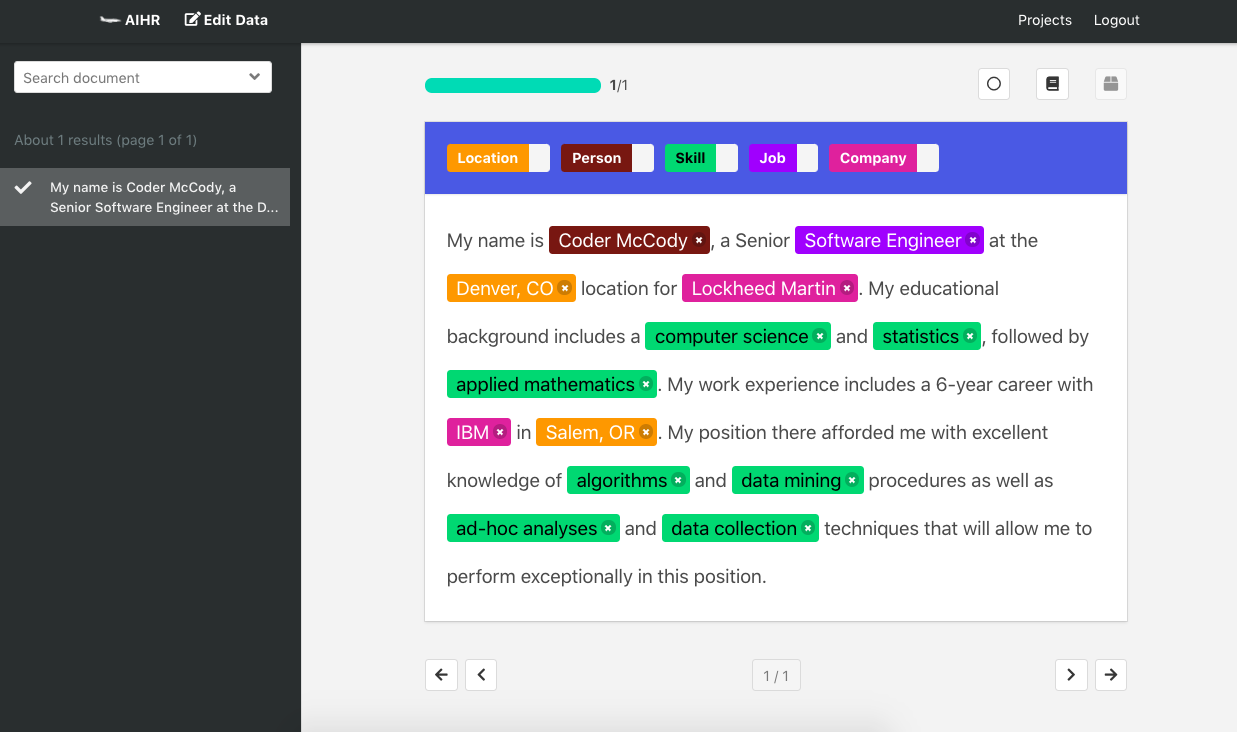
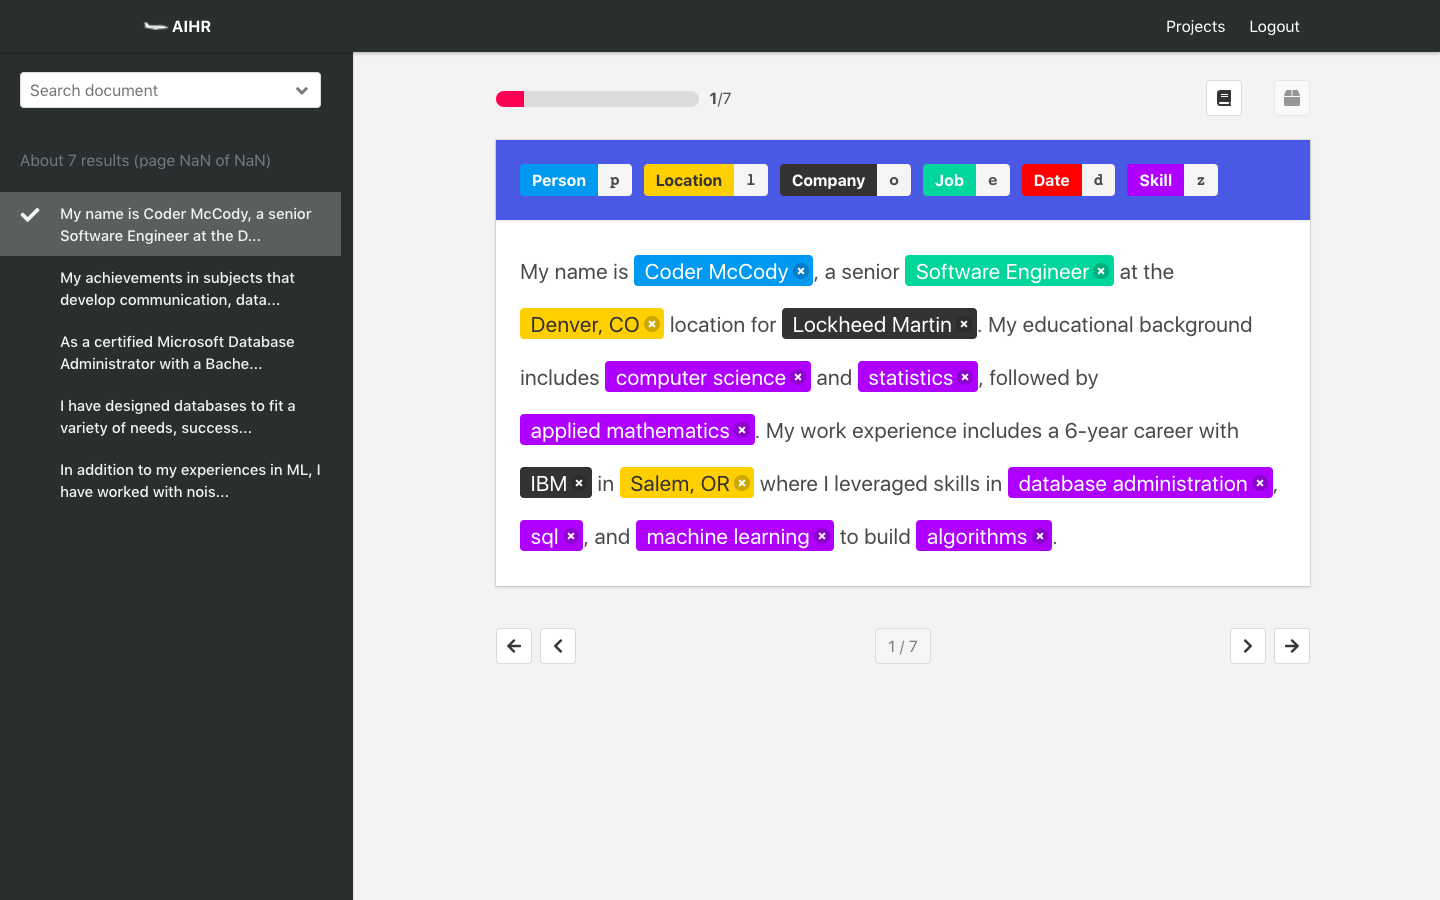
test

diff --git a/app/server/static/components/demo/demo_data.js b/app/server/static/components/demo/demo_data.js
@@ -7,115 +7,52 @@ export const demoNamedEntity = {
   },
   docs: [
     {id: 1, 
-     text: "My name is Coder McCody, a Senior Software Engineer at the Denver, CO location for Lockheed Martin. My educational background includes a computer science and statistics, followed by applied mathematics. My work experience includes a 6-year career with IBM in Salem, OR. My position there afforded me with excellent knowledge of algorithms and data mining procedures as well as ad-hoc analyses and data collection techniques that will allow me to perform exceptionally in this position.", 
-     annotations: [{id: 102, label: 1, start_offset: 11, end_offset: 23, user: 1}, {id: 121, label: 9, start_offset: 34, end_offset: 51, user: 1}, {id: 181, label: 2, start_offset: 59, end_offset: 69, user: 1}, {id: 171, label: 3, start_offset: 83, end_offset: 98, user: 1}, {id: 711, label: 8, start_offset: 137, end_offset: 153, user: 1}, {id: 1551, label: 8, start_offset: 158, end_offset: 168, user: 1}, {id: 411, label: 8, start_offset: 182, end_offset: 201, user: 1}, {id: 911, label: 3, start_offset: 252, end_offset: 255, user: 1}, {id: 1001, label: 2, start_offset: 259, end_offset: 268, user: 1}, {id: 112, label: 8, start_offset: 328, end_offset: 338, user: 1}, {id: 119, label: 8, start_offset: 343, end_offset: 354, user: 1}, {id: 331, label: 8, start_offset: 377, end_offset: 392, user: 1}, {id: 113, label: 8, start_offset: 397, end_offset: 412, user: 1}]},
+     text: "My name is Coder McCody, a senior Software Engineer at the Denver, CO location for Lockheed Martin. My educational background includes computer science and statistics, followed by applied mathematics. My work experience includes a 6-year career with IBM in Salem, OR where I leveraged skills in database administration, sql, and machine learning to build algorithms.", 
+     annotations: [
+     {id: 1, prob: 0.0, label: 1, start_offset: 11, end_offset: 23, user: 1}, 
+     {id: 2, prob: 0.0, label: 4, start_offset: 34, end_offset: 51, user: 1}, 
+     {id: 3, prob: 0.0, label: 2, start_offset: 59, end_offset: 69, user: 1}, 
+     {id: 4, prob: 0.0, label: 3, start_offset: 83, end_offset: 98, user: 1}, 
+     {id: 5, prob: 0.0, label: 6, start_offset: 135, end_offset: 151, user: 1}, 
+     {id: 6, prob: 0.0, label: 6, start_offset: 156, end_offset: 166, user: 1}, 
+     {id: 7, prob: 0.0, label: 6, start_offset: 180, end_offset: 199, user: 1}, 
+     {id: 8, prob: 0.0, label: 3, start_offset: 250, end_offset: 253, user: 1}, 
+     {id: 9, prob: 0.0, label: 2, start_offset: 257, end_offset: 266, user: 1}, 
+
+     {id: 10, prob: 0.0, label: 6, start_offset: 295, end_offset: 318, user: 1}, 
+     {id: 11, prob: 0.0, label: 6, start_offset: 320, end_offset: 323, user: 1}, 
+
+     {id: 12, prob: 0.0, label: 6, start_offset: 329, end_offset: 345, user: 1}, 
+     {id: 14, prob: 0.0, label: 6, start_offset: 355, end_offset: 365, user: 1}]},
 
     {
       id: 12,
-      text: 'Barack Hussein Obama II (born August 4, 1961) is an American attorney and politician who served as the 44th President of the United States from January 20, 2009, to January 20, 2017. A member of the Democratic Party, he was the first African American to serve as president. He was previously a United States Senator from Illinois and a member of the Illinois State Senate.',
-      annotations: [
-        {
-          id: 16,
-          prob: 0.0,
-          label: 1,
-          start_offset: 0,
-          end_offset: 23,
-        },
-        {
-          id: 19,
-          prob: 0.0,
-          label: 2,
-          start_offset: 121,
-          end_offset: 138,
-        },
-        {
-          id: 27,
-          prob: 0.0,
-          label: 2,
-          start_offset: 321,
-          end_offset: 329,
-        },
-        {
-          id: 22,
-          prob: 0.0,
-          label: 3,
-          start_offset: 199,
-          end_offset: 215,
-        },
-        {
-          id: 28,
-          prob: 0.0,
-          label: 3,
-          start_offset: 350,
-          end_offset: 371,
-        },
-        {
-          id: 17,
-          prob: 0.0,
-          label: 5,
-          start_offset: 30,
-          end_offset: 44,
-        },
-        {
-          id: 20,
-          prob: 0.0,
-          label: 5,
-          start_offset: 144,
-          end_offset: 160,
-        },
-        {
-          id: 21,
-          prob: 0.0,
-          label: 5,
-          start_offset: 165,
-          end_offset: 181,
-        },
-        {
-          id: 18,
-          prob: 0.0,
-          label: 6,
-          start_offset: 52,
-          end_offset: 60,
-        },
-        {
-          id: 24,
-          prob: 0.0,
-          label: 6,
-          start_offset: 234,
-          end_offset: 250,
-        },
-        {
-          id: 26,
-          prob: 0.0,
-          label: 6,
-          start_offset: 294,
-          end_offset: 315,
-        },
-      ],
+      text: 'My achievements in subjects that develop communication, data analysis, and visualization abilities constitute my capabilities in the field. I am certain that I have what you need and would become a beneficial extension to the company.',
+      annotations: [],
     },
     {
       id: 10,
-      text: 'The White House is the official residence and workplace of the President of the United States. It is located at 1600 Pennsylvania Avenue NW in Washington, D.C. and has been the residence of every U.S. President since John Adams in 1800. The term is often used as a metonym for the president and his advisers.',
+      text: 'As a certified Microsoft Database Administrator with a Bachelor’s degree in computer science and hands-on experience overseeing the design, development, and maintenance of various database systems, I believe my skills perfectly suit your needs.',
       annotations: [],
     },
     {
       id: 11,
-      text: "The Democratic Party is one of the two major contemporary political parties in the United States, along with the Republican Party. Tracing its heritage back to Thomas Jefferson and James Madison's Democratic-Republican Party, the modern-day Democratic Party was founded around 1828 by supporters of Andrew Jackson, making it the world's oldest active political party.",
+      text: "I have designed databases to fit a variety of needs, successfully ensured the security of those databases, problem-solved in order to meet both back-end and front-end needs, installed and tested new versions database management systems, customized and installed applications and meticulously monitored performance for the smoothest front-end experience possible.",
       annotations: [],
     },
     {
       id: 12,
-      text: "Stanford University (officially Leland Stanford Junior University, colloquially the Farm) is a private research university in Stanford, California. Stanford is known for its academic strength, wealth, proximity to Silicon Valley, and ranking as one of the world's top universities.",
+      text: "In addition to my experiences in ML, I have worked with noisy, large datasets in my previous two internships. At Raytheon, I worked on benchmarking their AI engine’s performance in clustering similar bugs in a bug database",
       annotations: [],
     },
     {
       id: 13,
-      text: 'Donald John Trump (born June 14, 1946) is the 45th and current President of the United States. Before entering politics, he was a businessman and television personality.',
+      text: 'I am using ML techniques such as recurrent neural network (RNN) on a Raspberry Pi to detect Sleep Interruption in real-time. I am also working in Python using Tensorflow, Keras, NumPy, Pandas, SciPy and Librosa. ',
       annotations: [],
     },
     {
       id: 14,
-      text: "Silicon Valley (abbreviated as SV) is a region in the southern San Francisco Bay Area of Northern California, referring to the Santa Clara Valley, which serves as the global center for high technology, venture capital, innovation, and social media. San Jose is the Valley's largest city, the 3rd-largest in California, and the 10th-largest in the United States. Other major SV cities include Palo Alto, Santa Clara, Mountain View, and Sunnyvale. The San Jose Metropolitan Area has the third highest GDP per capita in the world (after Zurich, Switzerland and Oslo, Norway), according to the Brookings Institution.",
+      text: "I built a custom compressor and decompressor in C and Python for the kinematic data flowing from a specialized surgical robotic devise. ",
       annotations: [],
     },
   ],
@@ -129,21 +66,21 @@ export const demoNamedEntity = {
     },
     {
       id: 2,
-      text: 'Loc',
+      text: 'Location',
       suffix_key: 'l',
       background_color: '#ffcc00',
       text_color: '#333333',
     },
     {
       id: 3,
-      text: 'Org',
+      text: 'Company',
       suffix_key: 'o',
       background_color: '#333333',
       text_color: '#ffffff',
     },
     {
       id: 4,
-      text: 'Event',
+      text: 'Job',
       suffix_key: 'e',
       background_color: '#33cc99',
       text_color: '#ffffff',
@@ -157,7 +94,7 @@ export const demoNamedEntity = {
     },
     {
       id: 6,
-      text: 'Other',
+      text: 'Skill',
       suffix_key: 'z',
       background_color: '#9933ff',
       text_color: '#ffffff',
@@ -175,54 +112,54 @@ export const demoTextClassification = {
   docs: [
     {
       id: 1,
-      text: 'Fair drama/love story movie that focuses on the lives of blue collar people finding new life thru new love.The acting here is good but the film fails in cinematography,screenplay,directing and editing.The story/script is only average at best.This film will be enjoyed by Fonda and De Niro fans and by people who love middle age love stories where in the coartship is on a more wiser and cautious level.It would also be interesting for people who are interested on the subject matter regarding illiteracy.......',
+      text: 'We are seeking a research scientist interested in fundamental and applied machine learning research. We want to find an intellectually curious person with a desire for building solutions to next generation problems. You will be joining a team of interdisciplinary scientists that bridge the gap between the academic and applied sides of research, and who share a vision of building autonomous systems to ensure national security, effective disaster relief, quick and efficient emergency response, and other high-impact customer needs.',
       annotations: [
         {
           id: 1,
-          label: 2,
+          label: 1,
         },
       ],
     },
     {
       id: 10,
-      text: "If you like adult comedy cartoons, like South Park, then this is nearly a similar format about the small adventures of three teenage girls at Bromwell High. Keisha, Natella and Latrina have given exploding sweets and behaved like bitches, I think Keisha is a good leader. There are also small stories going on with the teachers of the school. There's the idiotic principal, Mr. Bip, the nervous Maths teacher and many others. The cast is also fantastic, Lenny Henry's Gina Yashere, EastEnders Chrissie Watts, Tracy-Ann Oberman, Smack The Pony's Doon Mackichan, Dead Ringers' Mark Perry and Blunder's Nina Conti. I didn't know this came from Canada, but it is very good. Very good!",
-      annotations: [],
+      text: "Research and solution development experience in command and control, autonomous vehicle planning and control, formal methods for assurance, artificial perception, sensor data fusion, or collaborative autonomy involving teams of autonomous vehicles and humans (MUM-T).",
+      annotations: [{id:1, label:1}],
     },
     {
       id: 11,
-      text: "I came in in the middle of this film so I had no idea about any credits or even its title till I looked it up here, where I see that it has received a mixed reception by your commentators. I'm on the positive side regarding this film but one thing really caught my attention as I watched: the beautiful and sensitive score written in a Coplandesque Americana style. My surprise was great when I discovered the score to have been written by none other than John Williams himself. True he has written sensitive and poignant scores such as Schindler's List but one usually associates his name with such bombasticities as Star Wars. But in my opinion what Williams has written for this movie surpasses anything I've ever heard of his for tenderness, sensitivity and beauty, fully in keeping with the tender and lovely plot of the movie. And another recent score of his, for Catch Me if You Can, shows still more wit and sophistication. As to Stanley and Iris, I like education movies like How Green was my Valley and Konrack, that one with John Voigt and his young African American charges in South Carolina, and Danny deVito's Renaissance Man, etc. They tell a necessary story of intellectual and spiritual awakening, a story which can't be told often enough. This one is an excellent addition to that genre.",
-      annotations: [],
+      text: "The Flight Controls and Autonomy team is currently seeking highly motivated technology pioneers with a desire to steer and lead the Autonomy industry. Successful candidates must be willing and able to work on highly complex challenging problems, leading to world-changing technological breakthroughs.",
+      annotations: [{id:1, label:1}],
     },
     {
       id: 12,
-      text: "Story of a man who has unnatural feelings for a pig. Starts out with a opening scene that is a terrific example of absurd comedy. A formal orchestra audience is turned into an insane, violent mob by the crazy chantings of it's singers. Unfortunately it stays absurd the WHOLE time with no general narrative eventually making it just too off putting. Even those from the era should be turned off. The cryptic dialogue would make Shakespeare seem easy to a third grader. On a technical level it's better than you might think with some good cinematography by future great Vilmos Zsigmond. Future stars Sally Kirkland and Frederic Forrest can be seen briefly.",
-      annotations: [],
+      text: "Performs and documents analysis and design of Guidance, Navigation, and Control (GNC) systems to validate or assess the system design or models.",
+      annotations: [{id:1, label:2}],
     },
     {
       id: 13,
-      text: "Robert DeNiro plays the most unbelievably intelligent illiterate of all time. This movie is so wasteful of talent, it is truly disgusting. The script is unbelievable. The dialog is unbelievable. Jane Fonda's character is a caricature of herself, and not a funny one. The movie moves at a snail's pace, is photographed in an ill-advised manner, and is insufferably preachy. It also plugs in every cliche in the book. Swoozie Kurtz is excellent in a supporting role, but so what?<br /><br />Equally annoying is this new IMDB rule of requiring ten lines for every review. When a movie is this worthless, it doesn't require ten lines of text to let other readers know that it is a waste of time and tape. Avoid this movie.",
-      annotations: [],
+      text: "Expert experience in developing and demonstrating prototype and mature systems using modern tools from AI/ML, autonomy, and control.",
+      annotations: [{id:1, label:2}],
     },
     {
       id: 14,
-      text: 'From the beginning of the movie, it gives the feeling the director is trying to portray something, what I mean to say that instead of the story dictating the style in which the movie should be made, he has gone in the opposite way, he had a type of move that he wanted to make, and wrote a story to suite it. And he has failed in it very badly. I guess he was trying to make a stylish movie. Any way I think this movie is a total waste of time and effort. In the credit of the director, he knows the media that he is working with, what I am trying to say is I have seen worst movies than this. Here at least the director knows to maintain the continuity in the movie. And the actors also have given a decent performance.',
+      text: 'Typical assignments will include requirements definition and flowdown, systems design and analysis, systems integration, test, and verification. ',
       annotations: [],
     },
   ],
   labels: [
     {
       id: 1,
-      text: 'Negative',
+      text: 'Critical Skill',
       suffix_key: 'n',
-      background_color: '#ff0033',
+      background_color: '#66023C',
       text_color: '#ffffff',
     },
     {
       id: 2,
-      text: 'Positive',
+      text: 'None',
       suffix_key: 'p',
-      background_color: '#209cee',
-      text_color: '#ffffff',
+      background_color: '#d3d3d3',
+      text_color: '#000000',
     },
   ],
 };
@@ -237,41 +174,41 @@ export const demoTranslation = {
   docs: [
     {
       id: 1,
-      text: 'If it had not been for his help, I would have failed.',
+      text: 'How many days of vacation do I have per year.',
       annotations: [
         {
           id: 1,
-          text: "S'il ne m'avait pas aidé, j'aurais échoué.",
+          text: "Employees start the year with 80 hours of flexible time off, and gain additional PTO each month.",
         },
         {
           id: 2,
-          text: "S'il ne m'avait pas aidée, j'aurais échoué.",
+          text: "Employees start the year with 80 hours of vacation.",
         },
       ],
     },
     {
       id: 10,
-      text: 'According to this magazine, my favorite actress will marry a jazz musician next spring.',
+      text: 'How do I find out who my HRBP is?',
       annotations: [],
     },
     {
       id: 11,
-      text: "It's not always possible to eat well when you are traveling in this part of the world.",
+      text: "Where do I find my security contact?",
       annotations: [],
     },
     {
       id: 12,
-      text: "It's still early. We should all just chill for a bit.",
+      text: "How do I update my paycheck address for tax purposes?",
       annotations: [],
     },
     {
       id: 13,
-      text: "She got a master's degree three years ago.",
+      text: "Does Lockheed Martin have off for the 4th of July holiday?",
       annotations: [],
     },
     {
       id: 14,
-      text: 'We adopted an alternative method.',
+      text: 'Where can I find the company brand book for commmunications externally?',
       annotations: [],
     },
   ],
